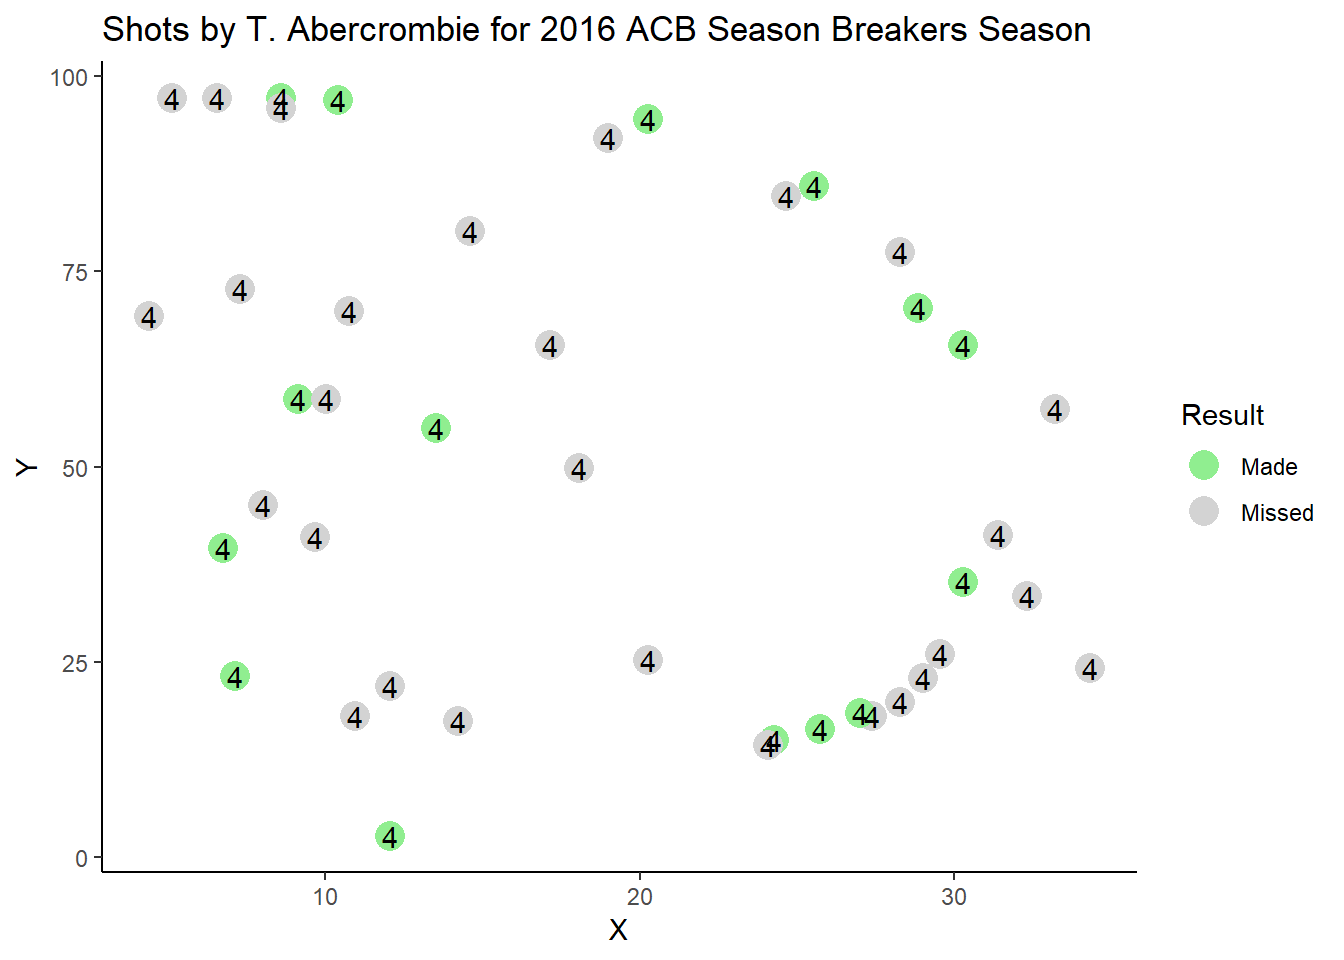
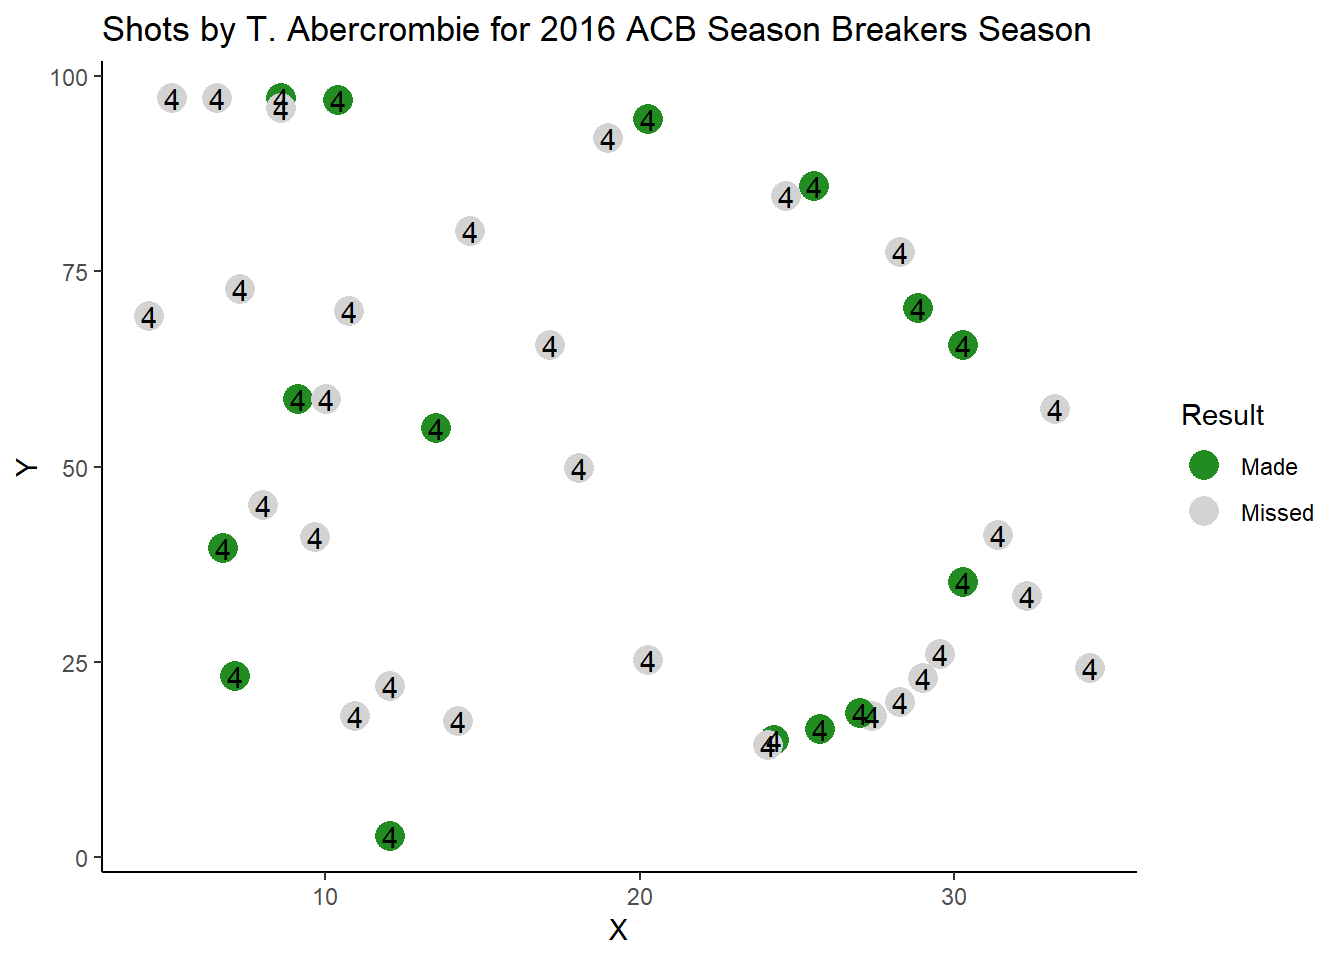
Updated bball blog to include colours

diff --git a/2019/01/31/animation-basketball/index.html b/2019/01/31/animation-basketball/index.html
@@ -427,7 +427,7 @@ shotsBreakers  %&gt;%
       filter(Player ==&quot;T. Abercrombie&quot;) %&gt;% 
       ggplot()  +
       geom_point(aes(X,Y,color=Result),size=5) +
-      scale_color_manual(values=c(&quot;lightgreen&quot;,&quot;lightgrey&quot;)) +       
+      scale_color_manual(values=c(&quot;forestgreen&quot;,&quot;lightgrey&quot;)) +       
       # Add player number
       geom_text(aes(x=X,y=Y,label=PlayerNo),color=&#39;black&#39;)+
       # Remove gridlines
@@ -436,40 +436,44 @@ shotsBreakers  %&gt;%
 <p><img src="https://kimnewzealand.github.io/post/BreakersAnalysis_files/figure-html/first%20plot-1.png" width="672" /></p>
 <p>In order to plot the court layout I first looked at this <a href="https://thedatagame.com.au/2015/09/27/how-to-create-nba-shot-charts-in-r/">blog</a> which plotted the points on an image. I preferred to plot the court layout using ggplot so that I could have some flexibility and ability to the scale of the data available. So I adapted the code found in this <a href="https://gist.github.com/edkupfer/6354964">GitHub</a> link. I only needed the half court, then rotate the court and then scale to match the Breakers data. This was to avoid manipulating the Breakers X,Y point data which could potentially introduce errors.</p>
 <pre class="r"><code># Half court adapted from full court https://gist.github.com/edkupfer/6354964 code 
-halfcourt &lt;- ggplot(data=data.frame(x=1,y=1),aes(x,y))+
+(halfcourt &lt;- ggplot(data=data.frame(x=1,y=1),aes(x,y))+
    ###outside box:
-geom_path(data=data.frame(x=c(0,0,50,50,0)*2,y=c(0,47,47,0,0)))+
+geom_polygon(data=data.frame(x=c(0,0,50,50,0)*2,y=c(0,47,47,0,0)),fill= &quot;burlywood2&quot;,colour=&quot;white&quot;)+
    ###solid FT semicircle above FT line:
-geom_path(data=data.frame(x=c(-6000:(-1)/1000,1:6000/1000)*2+50,y=-c(28-sqrt(6^2-c(-6000:(-1)/1000,1:6000/1000)^2))+47),aes(x=x,y=y))+
+geom_path(data=data.frame(x=c(-6000:(-1)/1000,1:6000/1000)*2+50,y=-c(28-sqrt(6^2-c(-6000:(-1)/1000,1:6000/1000)^2))+47),aes(x=x,y=y),colour=&quot;white&quot;)+
    ###dashed FT semicircle below FT line:
-geom_path(data=data.frame(x=c(-6000:(-1)/1000,1:6000/1000)*2+50,y=-c(28+sqrt(6^2-c(-6000:(-1)/1000,1:6000/1000)^2))+47),aes(x=x,y=y),linetype=&#39;dashed&#39;)+
+geom_path(data=data.frame(x=c(-6000:(-1)/1000,1:6000/1000)*2+50,y=-c(28+sqrt(6^2-c(-6000:(-1)/1000,1:6000/1000)^2))+47),aes(x=x,y=y),linetype=&#39;dashed&#39;,colour=&quot;white&quot;)+
    ###key:
-geom_path(data=data.frame(x=-c(-8,-8,8,8,-8)*2+50,y=-c(47,28,28,47,47)+47))+
+geom_polygon(data=data.frame(x=-c(-8,-8,8,8,-8)*2+50,y=-c(47,28,28,47,47)+47),fill= &quot;burlywood3&quot;,colour=&quot;white&quot;)+
    ###box inside the key:
-geom_path(data=data.frame(x=c(-6,-6,6,6,-6)*2+50,y=-c(47,28,28,47,47)+47))+
+geom_polygon(data=data.frame(x=c(-6,-6,6,6,-6)*2+50,y=-c(47,28,28,47,47)+47),fill= &quot;burlywood3&quot;,colour=&quot;white&quot;)+
    ###restricted area semicircle:
-geom_path(data=data.frame(x=c(-4000:(-1)/1000,1:4000/1000)*2+50,y=-c(41.25-sqrt(4^2-c(-4000:(-1)/1000,1:4000/1000)^2))+47),aes(x=x,y=y))+
+geom_path(data=data.frame(x=c(-4000:(-1)/1000,1:4000/1000)*2+50,y=-c(41.25-sqrt(4^2-c(-4000:(-1)/1000,1:4000/1000)^2))+47),aes(x=x,y=y),colour=&quot;white&quot;)+
    ###rim:
-geom_path(data=data.frame(x=c(-750:(-1)/1000,1:750/1000,750:1/1000,-1:-750/1000)*2+50,y=-c(c(41.75+sqrt(0.75^2-c(-750:(-1)/1000,1:750/1000)^2)),c(41.75-sqrt(0.75^2-c(750:1/1000,-1:-750/1000)^2)))+47),aes(x=x,y=y))+
+geom_path(data=data.frame(x=c(-750:(-1)/1000,1:750/1000,750:1/1000,-1:-750/1000)*2+50,y=-c(c(41.75+sqrt(0.75^2-c(-750:(-1)/1000,1:750/1000)^2)),c(41.75-sqrt(0.75^2-c(750:1/1000,-1:-750/1000)^2)))+47),aes(x=x,y=y),colour=&quot;white&quot;)+
    ###backboard:
-geom_path(data=data.frame(x=c(-3,3)*2+50,y=-c(43,43)+47),lineend=&#39;butt&#39;)+
+geom_path(data=data.frame(x=c(-3,3)*2+50,y=-c(43,43)+47),lineend=&#39;butt&#39;,colour=&quot;white&quot;)+
    ###three-point line:
-geom_path(data=data.frame(x=c(-22,-22,-22000:(-1)/1000,1:22000/1000,22,22)*2+50,y=-c(47,47-169/12,41.75-sqrt(23.75^2-c(-22000:(-1)/1000,1:22000/1000)^2),47-169/12,47)+47),aes(x=x,y=y))+
+geom_path(data=data.frame(x=c(-22,-22,-22000:(-1)/1000,1:22000/1000,22,22)*2+50,y=-c(47,47-169/12,41.75-sqrt(23.75^2-c(-22000:(-1)/1000,1:22000/1000)^2),47-169/12,47)+47),aes(x=x,y=y),colour=&quot;white&quot;)+
 # rotate the half court using coord_flip
-coord_flip()</code></pre>
+coord_flip())</code></pre>
+<p><img src="https://kimnewzealand.github.io/post/BreakersAnalysis_files/figure-html/create%20half%20court-1.png" width="672" /></p>
 <p>Now we will plot the shots onto the half court split by player.</p>
 <pre class="r"><code># Plot on half court split by player using facet_wrap
-ACBplot &lt;- halfcourt +
+(ACBplot &lt;- halfcourt +
             # We swap the X and Y coordinates to plot correctly on the coord_flipped halfcourt
-      geom_point(data=shotsBreakers,aes(Y,X,color=Result),size=5) +       
+      geom_point(data=shotsBreakers,
+                 aes(Y,X,color=Result),
+                 size=3) +       
       # Add player number
-      geom_text(data=shotsBreakers,aes(x=Y,y=X,label=PlayerNo),color=&#39;black&#39;)+
-      scale_color_manual(values=c(&quot;lightgreen&quot;,&quot;lightgrey&quot;)) +
+      geom_text(data=shotsBreakers,
+                aes(x=Y,y=X,
+                    label=PlayerNo),color=&#39;black&#39;)+
+      scale_color_manual(values=c(&quot;forestgreen&quot;,&quot;lightgrey&quot;)) +
       # Remove all plot details with theme_void
       theme_void() +
       ggtitle(&quot;Total Shots for Breakers 2016 ACB Season&quot;)+
-      facet_wrap(~Player)
-ACBplot</code></pre>
+      facet_wrap(~Player))</code></pre>
 <p><img src="https://kimnewzealand.github.io/post/BreakersAnalysis_files/figure-html/shots%20on%20%20half%20court-1.png" width="672" /></p>
 <pre class="r"><code># Save plot for blog
 # ggsave(&quot;ACBplot.jpg&quot;,ACBplot )</code></pre>
@@ -493,18 +497,22 @@ shotsBreakers %&gt;%
 <p>Initially I thought to use the <a href="https://gganimate.com/reference/transition_reveal">transition_reveal</a> R function to gradually show the shooting spots. I thought a transition would show up the difference better between <code>Quarters</code> minimising the persistence between states as this could convey movement of the spots. By adding a group aesthetic to override the default grouping and then transitioning on the same variable, this ensured no persistence or movement between states.</p>
 <pre class="r"><code>allseason &lt;-  halfcourt  +
       # We swap the X and Y coordinates to plot correctly on the coord_flipped halfcourt
-      geom_point(data=shotsBreakers ,aes(Y,X,color=Result,group=Quarter),size=3)  +
-      scale_color_manual(values=c(&quot;green&quot;,&quot;lightgrey&quot;))+
+      geom_point(data=shotsBreakers , 
+                 aes(Y,X,
+                     color=Result,
+                     group=Quarter),
+                 size=2)  +
+      scale_color_manual(values=c(&quot;forestgreen&quot;,&quot;lightgrey&quot;))+
       # Remove all plot details with theme_void
       theme_void()
 # Let&#39;s view the total shots split by variable Quarter using facet_wrap
 ACBbyfacet &lt;- allseason +
-      facet_wrap(~Quarter)
+      facet_wrap(~Quarter) +
+      ggtitle(&quot;Total Shots Made/Missed by Quarter&quot;)
 ACBbyfacet</code></pre>
 <p><img src="https://kimnewzealand.github.io/post/BreakersAnalysis_files/figure-html/allseason-1.png" width="672" /></p>
 <pre class="r"><code># Save plot for blog
-ggsave(&quot;ACBbyfacet.jpg&quot;,ACBbyfacet )</code></pre>
-<pre><code>## Saving 7 x 5 in image</code></pre>
+# ggsave(&quot;ACBbyfacet.jpg&quot;,ACBbyfacet )</code></pre>
 <pre class="r"><code># Animate using the new gganimate function transition_states
 anim &lt;- allseason +
       labs(title = &quot;Game quarter: {closest_state}&quot;)+ 
